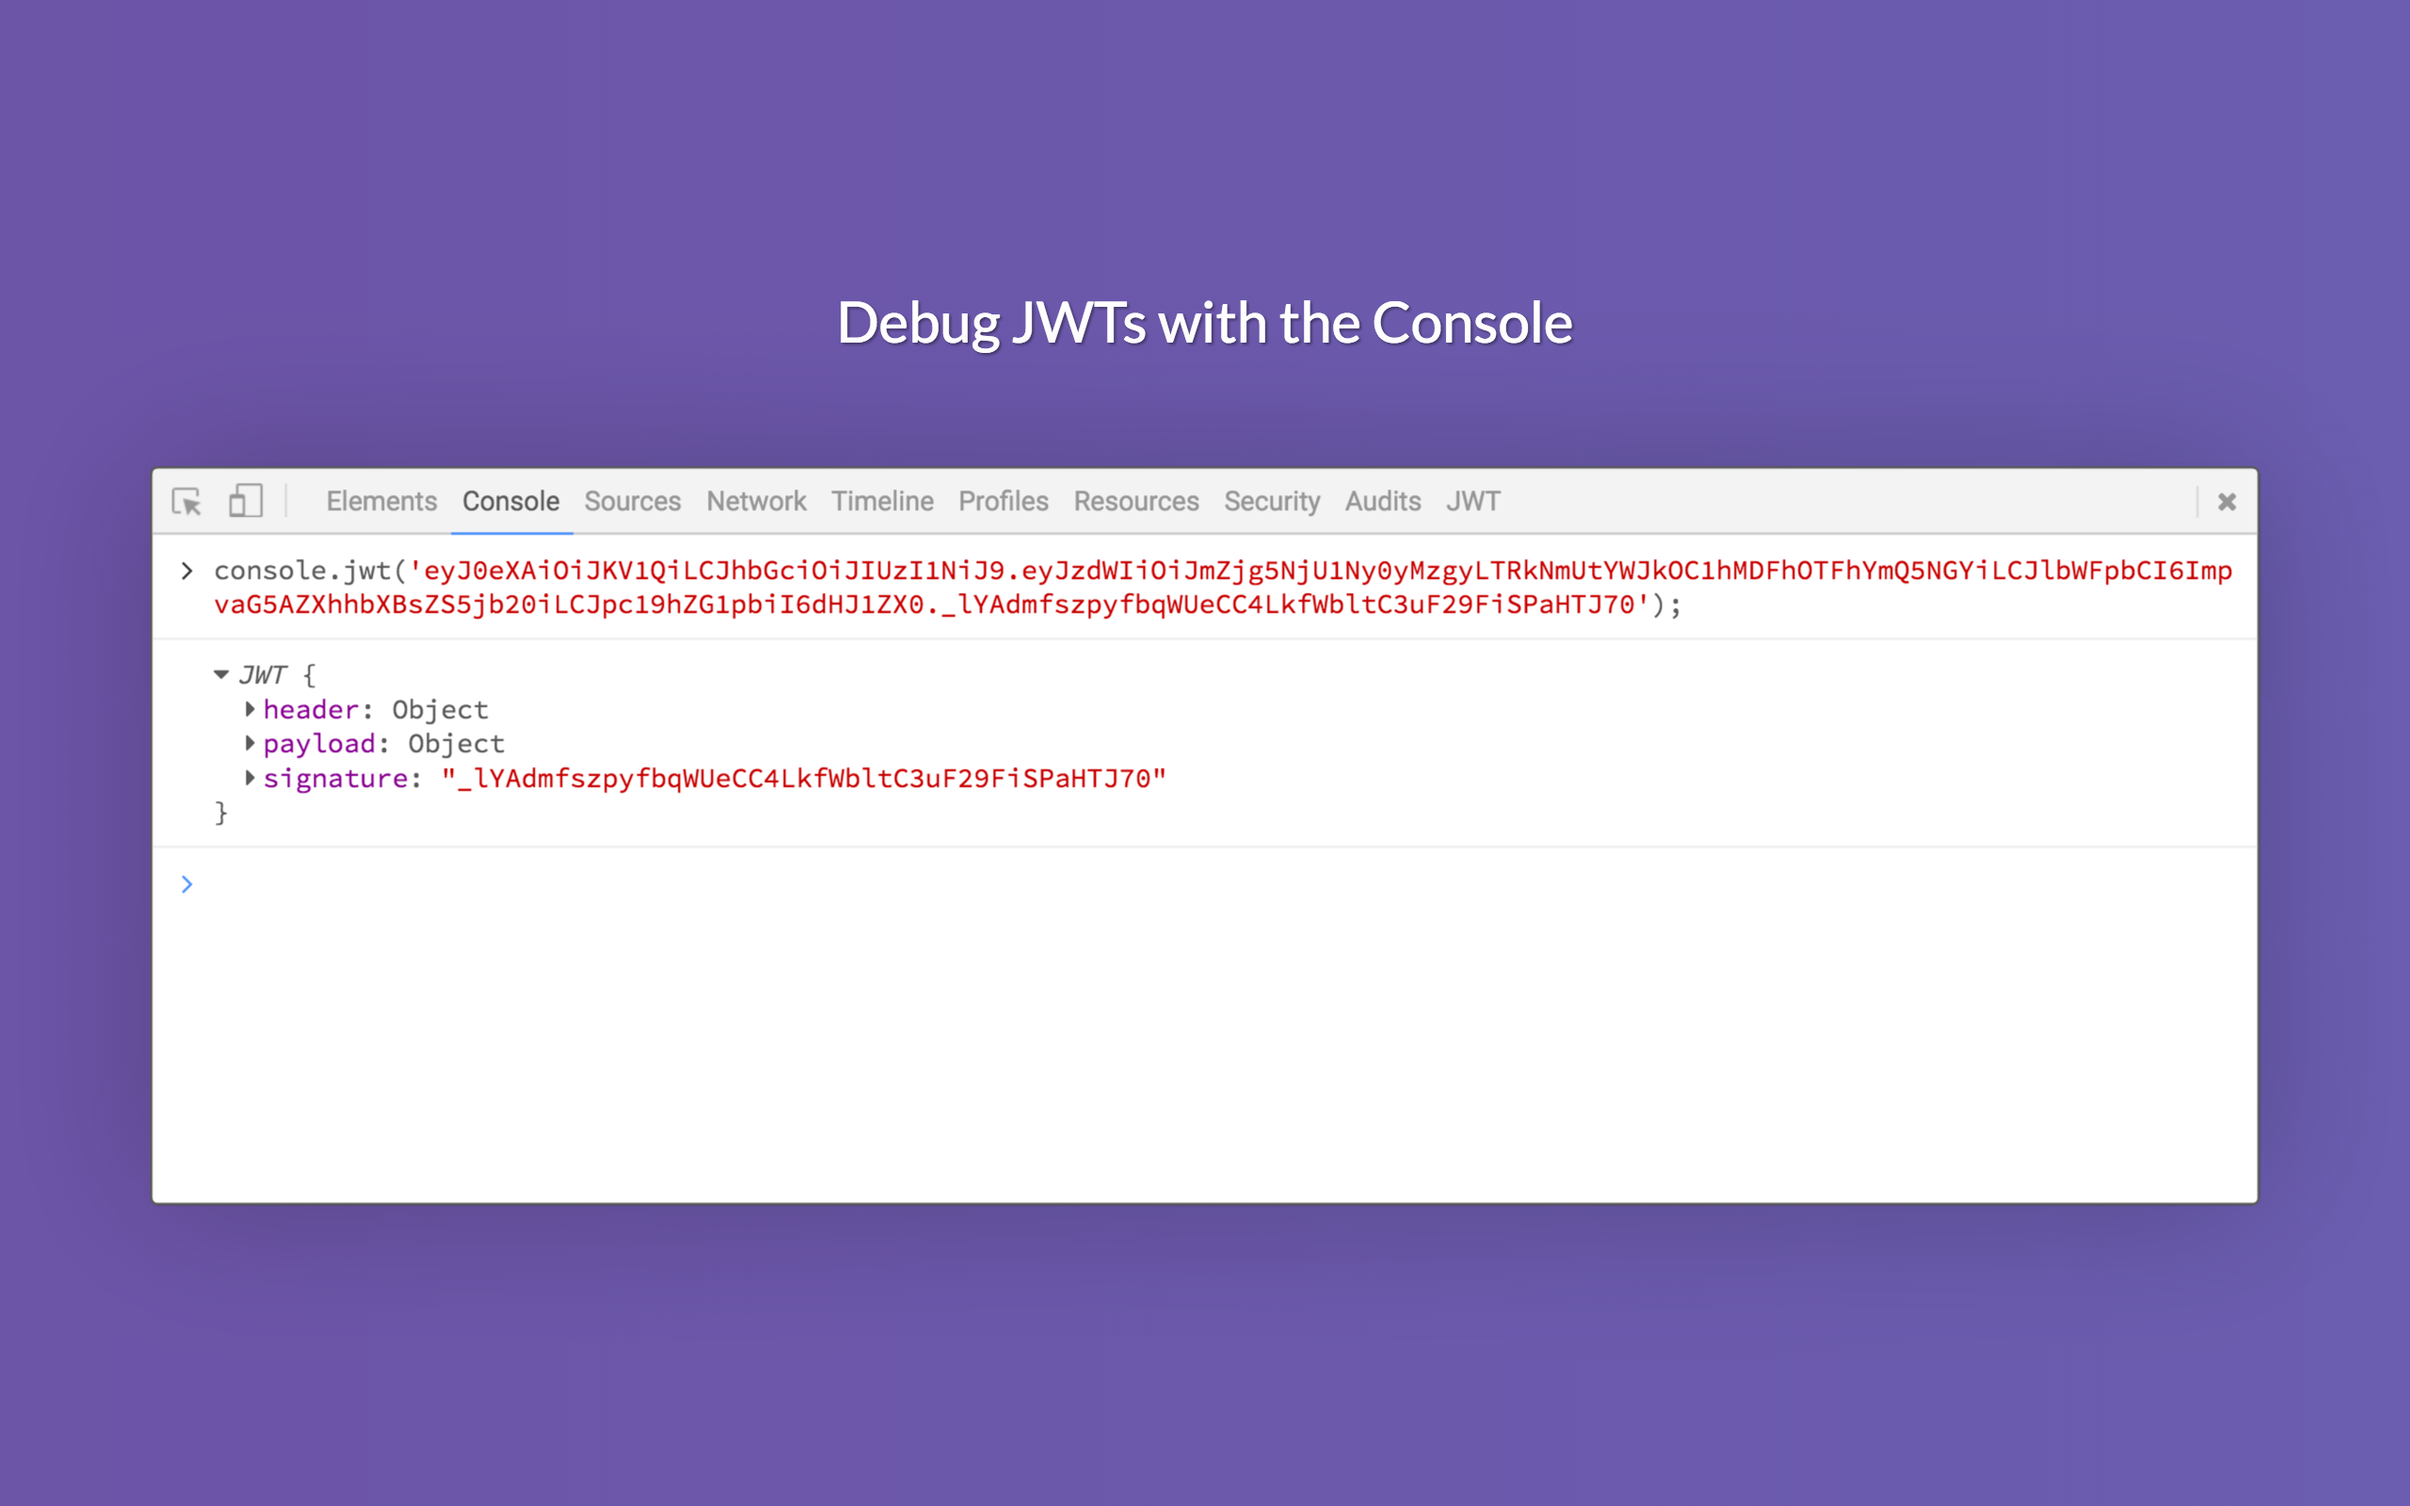
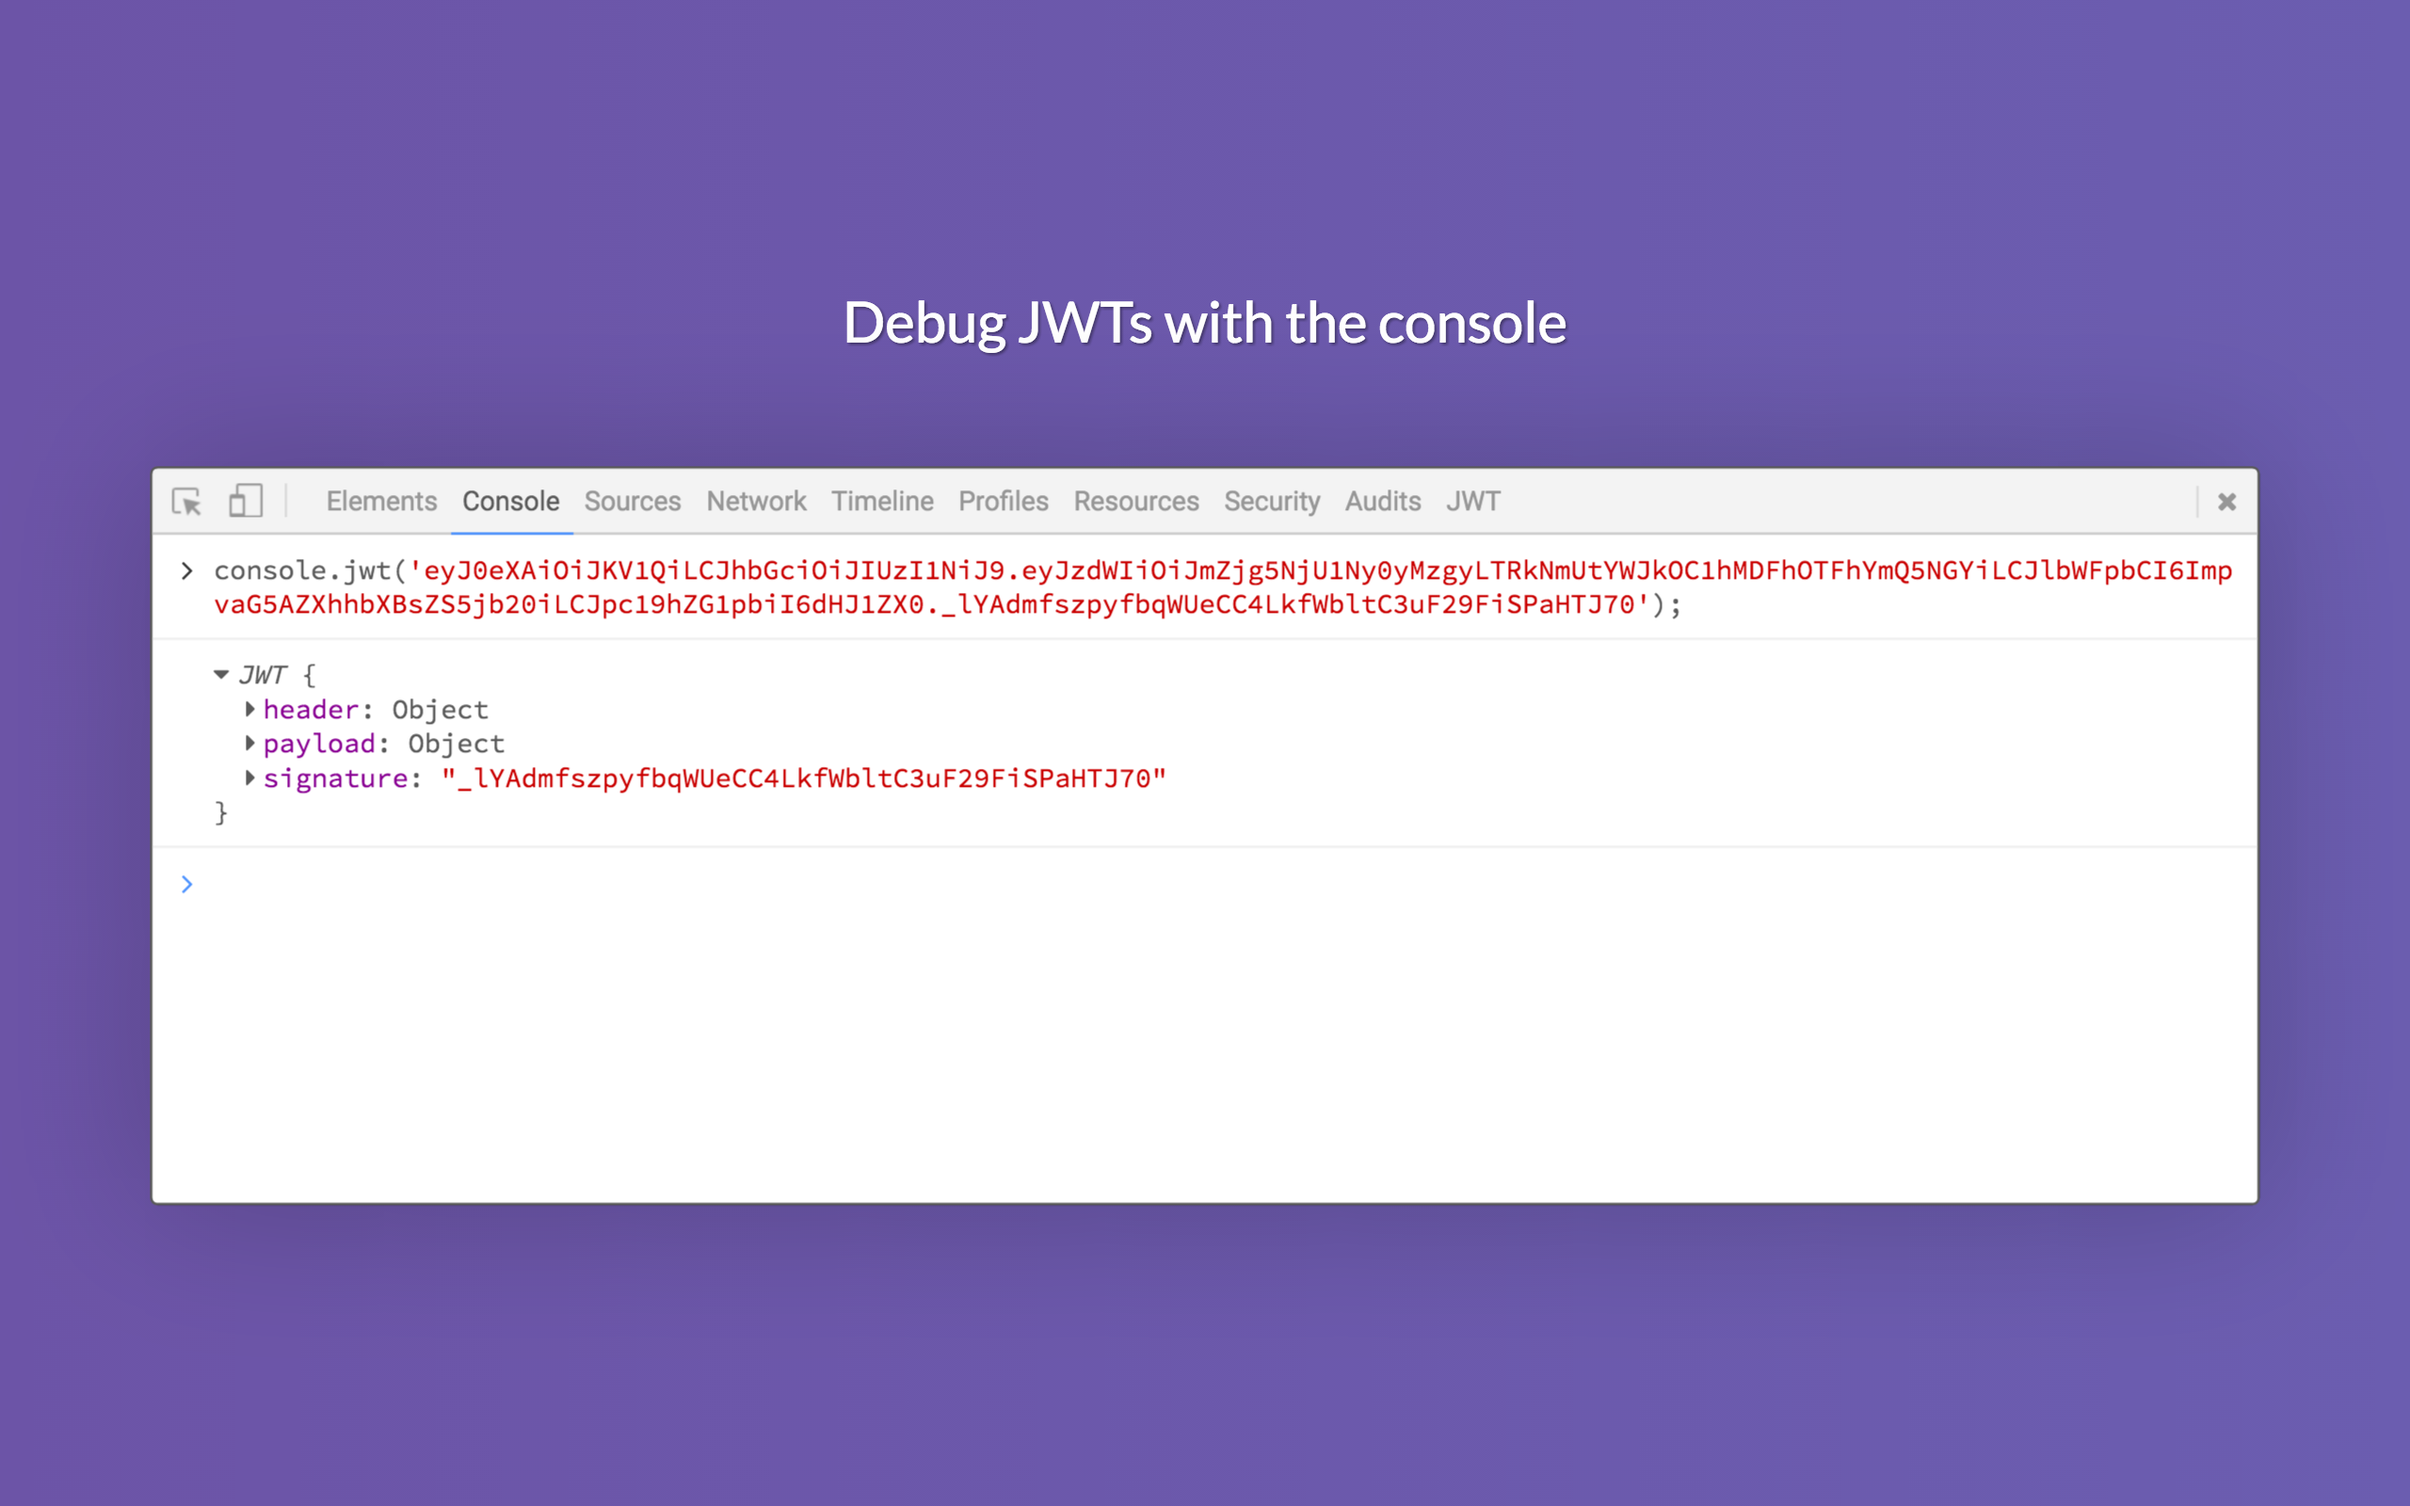
fix grammar based on robin's feedback

Changed region(s): [[0.3438, 0.1875, 0.6562, 0.25]]

diff --git a/src/index.html b/src/index.html
@@ -46,7 +46,7 @@
 
         <p class="description">
           JWT Inspector is a browser extension that lets you inspect JSON Web Tokens
-          in requests, cookies and local storage. Also debug any JWT directly from
+          in requests, cookies, and local storage. Also debug any JWT directly from
           the console or in the built-in UI.
         </p>
 
@@ -89,12 +89,12 @@
           Soon also available for Firefox and Safari.
         </p>
         <p class="small firefox">
-          It's at the moment only available for Chrome. Click the <em>Add to Firefox</em> button
-          to get notified when it comes to Firefox.
+          Currently only available for Chrome. Click the <em>Add to Firefox</em> button
+          above to get notified when it comes to Firefox.
         </p>
         <p class="small safari">
-          It's at the moment only available for Chrome. Click the <em>Add to Safari</em> button
-          to get notified when it comes to Safari.
+          Currently only available for Chrome. Click the <em>Add to Safari</em> button
+          above to get notified when it comes to Safari.
         </p>
 
         <div class="devtools animated slideInUp">
@@ -387,7 +387,7 @@
     </section>
     <section id="section-3">
       <div class="container feature">
-        <h2>Debug JWTs with the Console</h2>
+        <h2>Debug JWTs with the console</h2>
         <p>
           Use <code>console.jwt()</code> to decode and dump a JWT to the console.
         </p>
@@ -451,7 +451,7 @@
         <div class="close" onclick="hideModal()" title="Close">&times;</div>
         <h4>It's not ready for Firefox just yet...</h4>
         <p>
-          It's at the moment only available for Chrome. But enter your email address
+          It's currently only available for Chrome. But enter your email address
           to get notified when it comes to Firefox. Each subscription will make us
           work a little harder.
         </p>
@@ -472,7 +472,7 @@
         <div class="close" onclick="hideModal()" title="Close">&times;</div>
         <h4>It's not ready for Safari just yet...</h4>
         <p>
-          It's at the moment only available for Chrome. But enter your email address
+          It's currently only available for Chrome. But enter your email address
           to get notified when it comes to Safari. Each subscription will make us
           work a little harder.
         </p>

diff --git a/src/screenshots.html b/src/screenshots.html
@@ -612,7 +612,7 @@
     <header>
       <div class="container">
         <p class="description">
-          Debug JWTs with the Console
+          Debug JWTs with the console
         </p>
         <div class="devtools">
           <div class="devtools-header">
